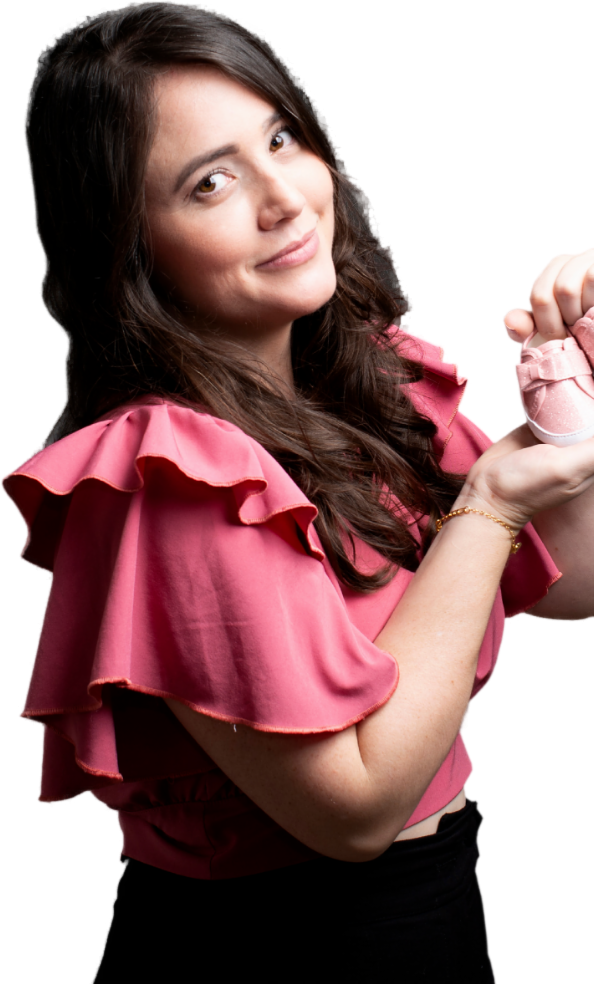
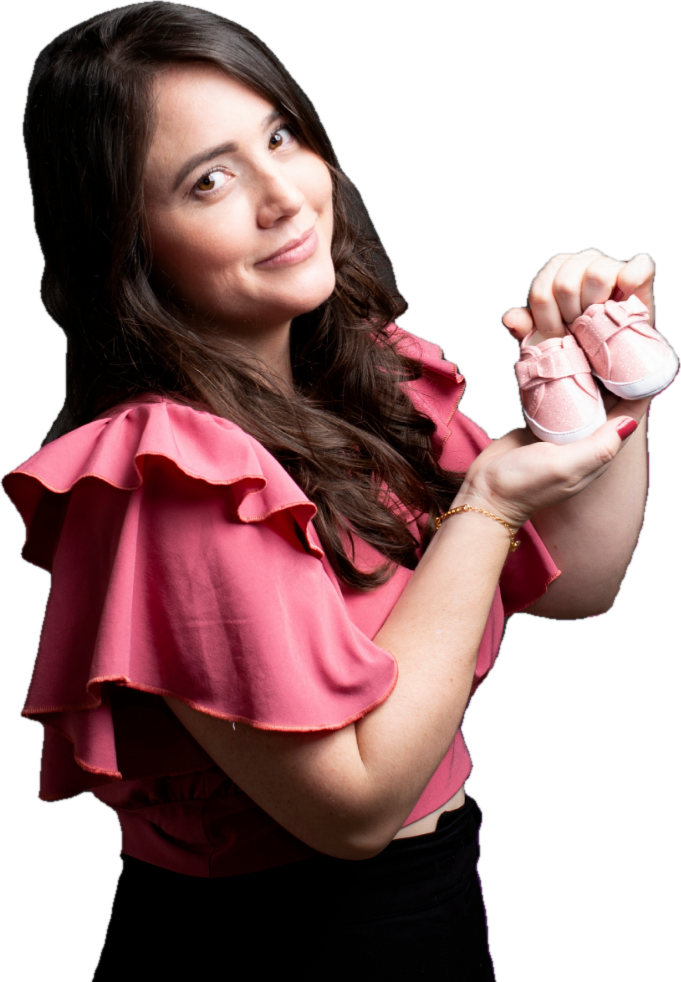
redesign: Day cutout clean, combo colors, avulso boxes, remove badge, button repositioned

diff --git a/index.html b/index.html
@@ -294,30 +294,36 @@
   /* pricing vertical grid */
   .avulsos-bar{background:linear-gradient(165deg,#33113f,#1e0930);border:1px solid rgba(255,255,255,.1);border-radius:22px;padding:20px 24px;margin-bottom:18px}
   .avulsos-bar h3{font-family:'Anton',sans-serif;font-size:clamp(13px,1.4vw,16px);color:var(--pink);text-transform:uppercase;letter-spacing:.12em;margin-bottom:12px}
-  .avulsos-grid{display:grid;grid-template-columns:repeat(4,1fr);gap:0}
-  .avulso-item{display:flex;flex-direction:column;align-items:center;text-align:center;padding:10px 8px;border-right:1px solid rgba(255,255,255,.08)}
-  .avulso-item:last-child{border-right:none}
+  .avulsos-grid{display:grid;grid-template-columns:repeat(4,1fr);gap:10px}
+  .avulso-item{display:flex;flex-direction:column;align-items:center;text-align:center;padding:14px 12px;border-radius:14px;background:rgba(255,255,255,.04);border:1px solid rgba(255,255,255,.08)}
+  .avulso-item:hover{background:rgba(255,255,255,.07);border-color:rgba(255,255,255,.14)}
   .avulso-item span{font-size:14px;font-weight:600;color:#e6d6ec}
   .avulso-item small{font-size:11px;color:#a98ab8;margin:4px 0 8px}
   .avulso-item b{font-family:'Anton',sans-serif;font-size:clamp(22px,2.8vw,30px);color:#fff}
   .combos-row{display:grid;grid-template-columns:repeat(3,1fr);gap:22px}
   .combo-card{position:relative;background:linear-gradient(165deg,#33113f,#1e0930);border:1px solid rgba(255,255,255,.1);border-radius:22px;padding:22px;transition:transform .3s,box-shadow .3s}
   .combo-card:hover{transform:translateY(-6px);box-shadow:0 24px 50px rgba(0,0,0,.45)}
-  .combo-card.hot{background:linear-gradient(165deg,var(--magenta),#5a1450);border-color:rgba(224,90,156,.5)}
+  .combo-views{background:linear-gradient(165deg,#2a1848,#1a0d30);border-color:rgba(90,26,134,.4)}
+  .combo-views .combo-price{color:#b07adb}
+  .combo-views .combo-includes li::before{color:#b07adb}
+  .combo-content{background:linear-gradient(165deg,var(--magenta),#5a1450);border-color:rgba(224,90,156,.5)}
+  .combo-content .combo-price{color:#fff}
+  .combo-content .tag{color:#ffd9ec}
+  .combo-content .combo-includes li{color:#f3e0ee}
+  .combo-content .combo-includes li::before{color:#ffd9ec}
+  .combo-master{background:linear-gradient(165deg,#1a3045,#0f1e30);border-color:rgba(56,189,248,.3)}
+  .combo-master .combo-price{color:#7dd3fc}
+  .combo-master .combo-includes li::before{color:#7dd3fc}
   .combo-card .tag{font-size:11px;letter-spacing:.12em;text-transform:uppercase;color:var(--pink);font-weight:700}
-  .combo-card.hot .tag{color:#ffd9ec}
+  .combo-content .tag{color:#ffd9ec}
   .combo-card h3{font-family:'Anton',sans-serif;font-size:clamp(22px,2.8vw,32px);color:#fff;margin:4px 0 8px}
   .combo-price{font-family:'Anton',sans-serif;font-size:clamp(30px,4vw,44px);color:var(--pink);line-height:1}
-  .combo-card.hot .combo-price{color:#fff}
   .combo-price .c{font-size:.5em;vertical-align:.4em;margin-right:2px}
-  .combo-badge{position:absolute;top:-12px;right:18px;background:linear-gradient(135deg,var(--pink),var(--magenta2));color:#fff;font-size:11px;font-weight:700;letter-spacing:.08em;text-transform:uppercase;padding:6px 14px;border-radius:20px;box-shadow:0 4px 16px rgba(224,90,156,.4)}
   .combo-includes{list-style:none;margin-top:14px;padding:0}
   .combo-includes li{position:relative;padding:5px 0 5px 20px;font-size:13px;color:#d8c2e0;border-bottom:1px solid rgba(255,255,255,.06)}
   .combo-includes li:last-child{border-bottom:none}
   .combo-includes li::before{content:'✓';position:absolute;left:0;color:var(--pink);font-weight:700;font-size:12px}
-  .combo-card.hot .combo-includes li{color:#f3e0ee}
-  .combo-card.hot .combo-includes li::before{color:#ffd9ec}
-  @media(max-width:700px){.avulsos-grid{grid-template-columns:repeat(2,1fr)}.avulso-item:nth-child(2){border-right:none}.combos-row{grid-template-columns:1fr}.combo-badge{top:-10px;right:14px}}
+  @media(max-width:700px){.avulsos-grid{grid-template-columns:repeat(2,1fr)}.combos-row{grid-template-columns:1fr}}
 
   /* CONTATO */
   .cta{background:#150621;min-height:92svh;display:flex;align-items:center}
@@ -459,7 +465,7 @@
       </div>
       <div class="fphone-wrap rv d1" data-par="-16" style="gap:12px;position:relative">
         <a class="fphone tr" href="https://www.instagram.com/reel/CiiOy2pNbGq/" target="_blank" rel="noopener"><img src="assets/phone-paraquem.webp" alt="Reel do Manual do Recém-Nascido"></a>
-        <a class="reelbtn-green" href="https://www.instagram.com/reel/CiiOy2pNbGq/" target="_blank" rel="noopener" style="position:absolute;bottom:22%;left:-30px;z-index:5"><svg viewBox="0 0 24 24"><path d="M8 5v14l11-7z"/></svg>Ver reels</a>
+        <a class="reelbtn-green" href="https://www.instagram.com/reel/CiiOy2pNbGq/" target="_blank" rel="noopener" style="position:absolute;bottom:5%;left:-24px;z-index:5"><svg viewBox="0 0 24 24"><path d="M8 5v14l11-7z"/></svg>Ver reels</a>
       </div>
     </div>
     <div class="wrap">
@@ -562,7 +568,6 @@
           <div class="city-tags"><span class="city-tag">São Paulo</span><span class="city-tag">Rio de Janeiro</span><span class="city-tag">Fortaleza</span><span class="city-tag">Belo Horizonte</span><span class="city-tag">Curitiba</span><span class="city-tag">Salvador</span><span class="city-tag">Goiânia</span><span class="city-tag">Recife</span><span class="city-tag">Manaus</span><span class="city-tag">Porto Alegre</span></div>
         </div>
       </div>
-      <p style="text-align:center;color:#7d6489;font-size:11px;margin-top:16px;letter-spacing:.03em" data-updated>dados dos últimos 90 dias, atualizado em set/2026</p>
     </div>
   </section>
 
@@ -621,7 +626,7 @@
         <span class="rings"></span><span class="arch m"></span>
         <i class="cf dot a"></i><span class="cf hollow b"></span>
         <svg class="cf star c" viewBox="0 0 24 24" fill="currentColor"><path d="M12 0c.6 5.8 5.6 10.8 12 12-6.4 1.2-11.4 6.2-12 12-.6-5.8-5.6-10.8-12-12C6.4 10.8 11.4 5.8 12 0z"/></svg>
-        <img src="assets/day-cut-invest.png" alt="Dayane Dos Anjos" style="width:118%;max-width:none;margin-left:-9%">
+        <img src="assets/day-cut-invest.png" alt="Dayane Dos Anjos">
       </div>
       <div>
         <h2 class="h2 display rv">INVESTIMENTO</h2>
@@ -668,7 +673,7 @@
       </div>
 
       <div class="combos-row">
-        <div class="combo-card rv d2">
+        <div class="combo-card combo-views rv d2">
           <div class="tag">Combo</div>
           <h3>Views</h3>
           <div class="combo-price"><span class="c">R$</span>4 mil</div>
@@ -677,8 +682,7 @@
             <li>Sequência de até 3 Stories</li>
           </ul>
         </div>
-        <div class="combo-card hot rv d3">
-          <div class="combo-badge">mais escolhido</div>
+        <div class="combo-card combo-content rv d3">
           <div class="tag">Combo</div>
           <h3>Content</h3>
           <div class="combo-price"><span class="c">R$</span>4,7 mil</div>
@@ -688,7 +692,7 @@
             <li>Sequência de até 3 Stories</li>
           </ul>
         </div>
-        <div class="combo-card rv d4">
+        <div class="combo-card combo-master rv d4">
           <div class="tag">Combo</div>
           <h3>Master</h3>
           <div class="combo-price"><span class="c">R$</span>7,9 mil</div>
@@ -810,7 +814,6 @@
     var mp=get(d,'publico.mulheres'); if(mp){document.querySelector('[data-pct=mulheres]').setAttribute('data-count',mp);
       document.querySelector('.bar .w').setAttribute('data-w',mp);document.querySelector('.bar .h').setAttribute('data-w',get(d,'publico.homens'));}
     document.querySelectorAll('[data-t]').forEach(function(el){var v=get(d,el.getAttribute('data-t'));if(v)el.textContent=v;});
-    var up=document.querySelector('[data-updated]'); if(up&&d.atualizado_em)up.textContent='Dados de '+d.atualizado_em.replace('-','/');
   }
   applyData(FALLBACK); // instant defaults
   fetch('data.json').then(function(r){return r.json();}).then(applyData).catch(function(){});
